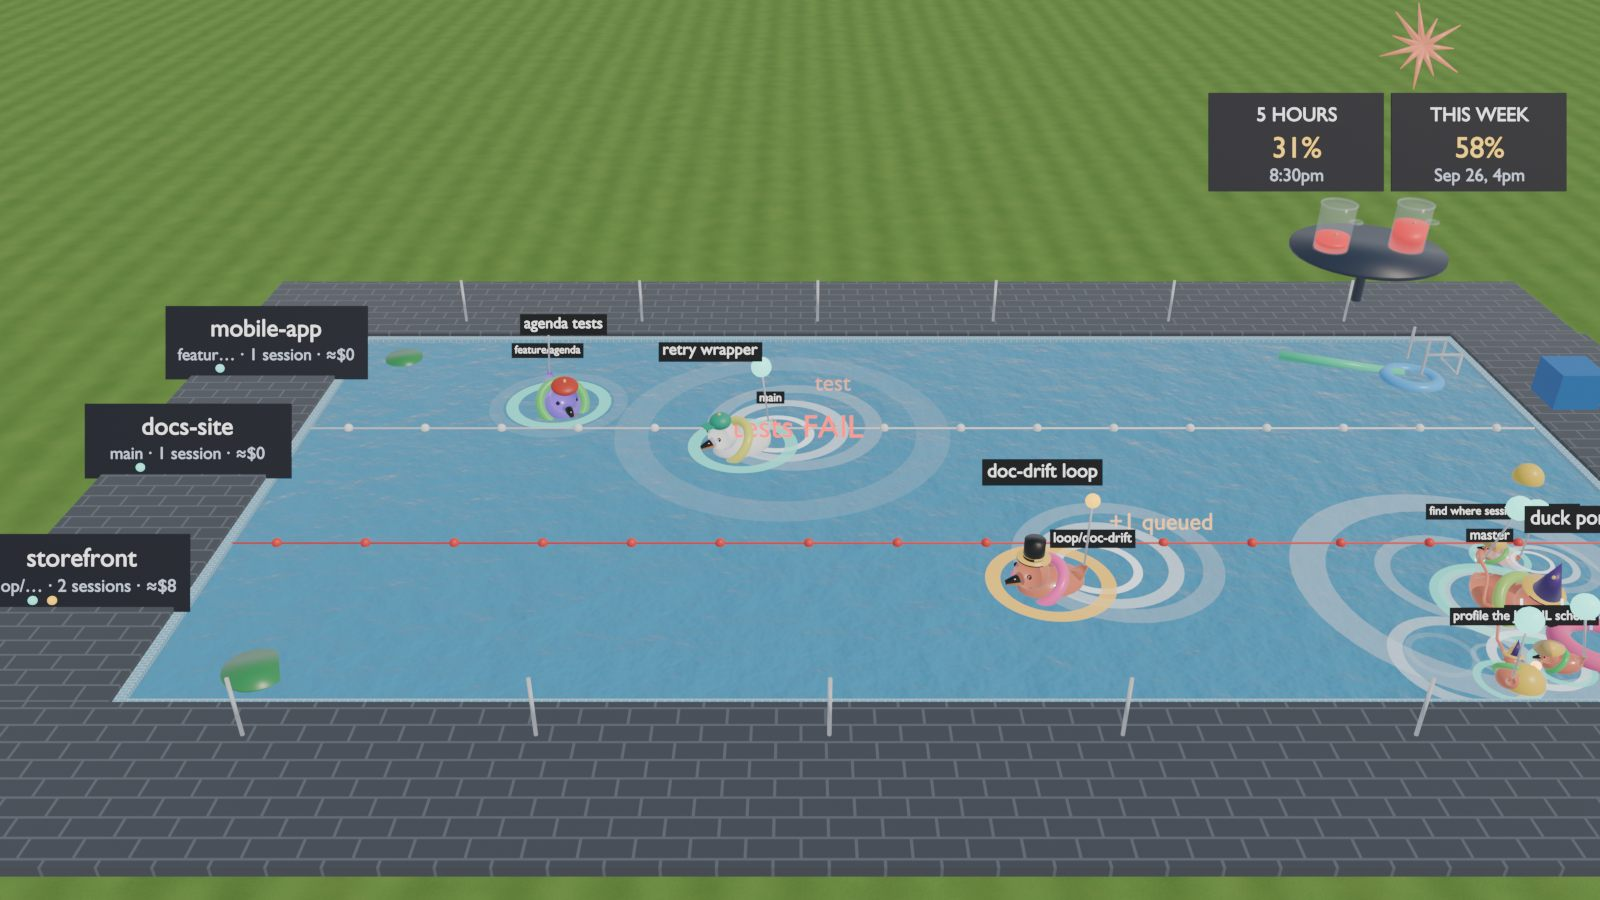
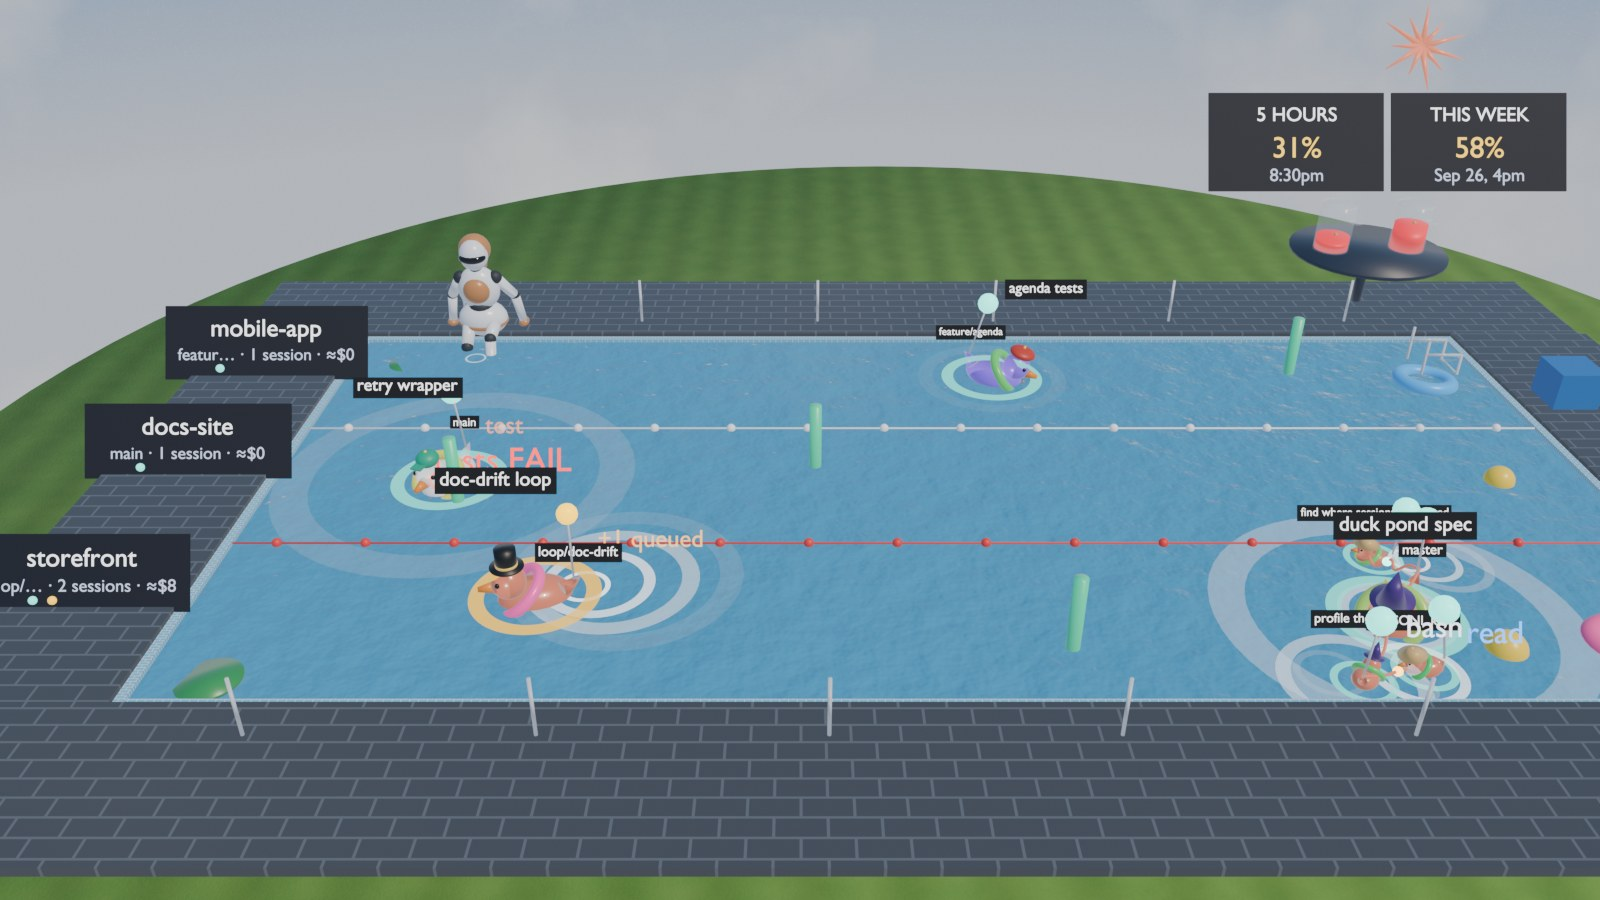
Re-render the screenshots for the pool as it is now
All seven were made on 19 September, before the android sat down on the edge,
before the noodles, and before the sky grew a horizon. The overview was still
captioned as showing a scoreboard on the far deck, which moved onto the screen
two releases earlier and so cannot appear in a headless render at all; what is
actually on that deck is the sangria jugs.

The hover card shot now catches a duck with a question open, so the card quotes
it -- which is what that caption has claimed all along. Both overlay shots are
forced to 16:30 rather than whatever the wall clock said, so they do not
duplicate the night shot. compaction.jpg was in the repo and referenced by
nothing; it now illustrates the geyser row of the reading table.

Everything comes from fixtures/demo.json with sample usage in the jugs, so no
screenshot carries a real path, project name or usage reading.

diff --git a/README.md b/README.md
@@ -22,15 +22,17 @@ empty and magenta when it is full. The sun follows your clock; after dark the li
 on and the ducks glow. A **board** across the top of the screen carries the live count and the
 spend; each lane sign on the west deck carries branches, sessions and that folder's spend; and
 two **jugs of sangria** on the far deck fill with your Anthropic 5-hour and 7-day usage.
+An android sits on the edge with her feet in the water; she puts a hand up when a duck is
+stopped waiting on an answer from you. Pool noodles drift about and bump into the ducks.
 Spec: [`SPEC.md`](SPEC.md), §15 for what changed in v0.2. Code tour:
 [`docs/ARCHITECTURE.md`](docs/ARCHITECTURE.md).
 
-![The pool: four lanes, ducks with hats, ducklings on tethers, the scoreboard on the far deck](docs/media/overview.jpg)
+![The pool: four lanes, ducks with hats, ducklings on tethers, the sangria jugs on the far deck](docs/media/overview.jpg)
 
 | | |
 |---|---|
 | ![A busy fleet: chips, packets, wakes](docs/media/busy.jpg) | ![A duck blocked on a permission: red lamp, red halo, red rings](docs/media/blocked.jpg) |
-| ![Kiosk mode: name and status tag on every duck](docs/media/kiosk_tags.jpg) | ![After dark: lido lamps on, ducks glowing](docs/media/night.jpg) |
+| ![Kiosk mode: name and status tag on every duck](docs/media/kiosk_tags.jpg) | ![After dark: lido lamps on, ducks glowing, stars over the horizon](docs/media/night.jpg) |
 
 ## Run it
 
@@ -122,6 +124,8 @@ clock override to preview the night lido.
 | dark water, lido lamps, glowing ducks | it is after 20:30 on your clock |
 | a flamingo float, a beach ball, a lily pad drifting at the edge | nothing at all; the pool is a place, not only a chart |
 
+![Compaction: the geyser goes up, the duck pops up with it](docs/media/compaction.jpg)
+
 The board runs across the top of the screen. It reads `N WORKING · N WAITING · N BLOCKED ·
 N IDLE`, then five range tabs (`min` `hour` `day` `week` `month`; click one or press `T`).
 Under them: spend, output tokens and sessions for the picked range (`last 24 h`), the same for
@@ -160,7 +164,7 @@ the duck is named for, so the match is exact -- focuses it, and raises the windo
 Herdr. Nothing happens if Herdr is not installed, and the whole thing turns off in the
 sidebar, which you may want, since focusing a terminal takes the focus off the pool.
 
-![The hover card: state bar, context meter, the question quoted, current tool, sub-agents](docs/media/hover_card.jpg)
+![The hover card: state bar, context meter, the question quoted, what you said, the queue](docs/media/hover_card.jpg)
 
 ## Data and privacy
 

diff --git a/CHANGELOG.md b/CHANGELOG.md
@@ -50,6 +50,12 @@ All notable changes to Duck Pond are recorded here. The format follows
   far on a fixed line, and ≈$ bars for the range with their peak.
 
 ### Changed
+- All seven README screenshots re-rendered. They were made before the android, the
+  noodles and the horizon existed, and the overview was still captioned as showing a
+  scoreboard on the far deck, which moved onto the screen two releases ago. The hover
+  card shot now catches a duck with a question open, which is what its caption always
+  claimed. All from `fixtures/demo.json` with sample usage figures, so no screenshot
+  carries a real path, project name or usage reading.
 - The bather sits propped on both hands, planted on the deck out beside her hips, and
   leans back a few degrees onto them all the time. Her arms used to fold in behind her
   back -- the left hand at y +0.255, the right swinging round to almost her centreline --
